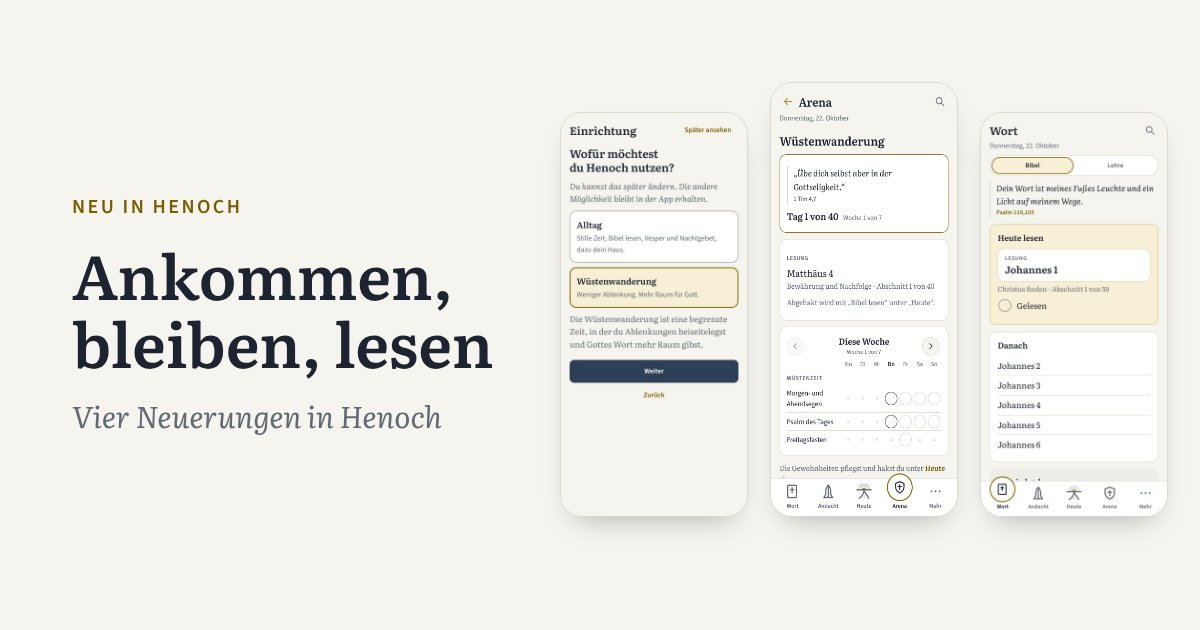
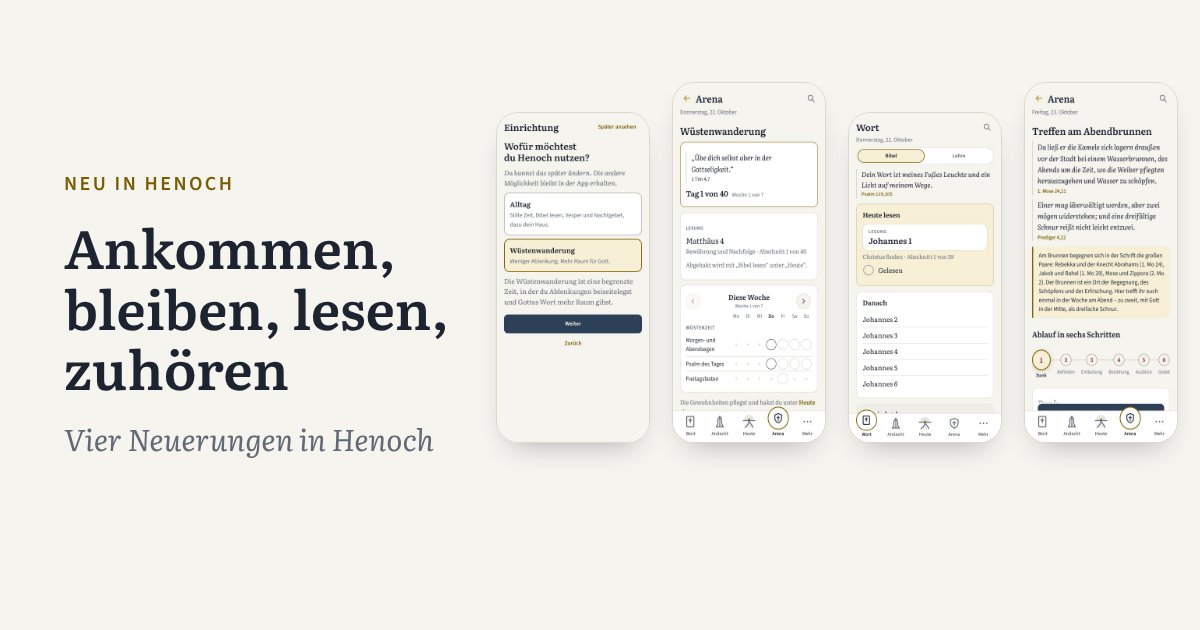
Version 1.5.1: Überschrift „Ankommen, bleiben, lesen, zuhören“, Vorschaubild mit dem Abendbrunnen
Claude-Session: https://claude.ai/code/session_0153VQ5cxdF3svXPQwUaQRWS

diff --git a/index.html b/index.html
@@ -1,5 +1,5 @@
 <!doctype html>
-<!-- Henoch Homepage 1.5.0 -->
+<!-- Henoch Homepage 1.5.1 -->
 <html lang="de">
 <head>
   <meta charset="utf-8">
@@ -121,7 +121,7 @@
       <h2 id="neuigkeiten">Neuigkeiten</h2>
       <!-- Höchstens fünf Beiträge, der neueste zuerst; die sechste Kachel ist immer das Archiv. -->
       <ul class="news">
-        <li><a href="neuigkeiten/drei-neuerungen-2026/"><span class="news-date">Oktober 2026</span><span class="news-title">Ankommen, bleiben, lesen</span><span class="news-text">Einrichtung, Wüstenwanderung, Lesepläne und das Treffen am Abendbrunnen: was neu ist und was es dir bringt.</span></a></li>
+        <li><a href="neuigkeiten/drei-neuerungen-2026/"><span class="news-date">Oktober 2026</span><span class="news-title">Ankommen, bleiben, lesen, zuhören</span><span class="news-text">Einrichtung, Wüstenwanderung, Lesepläne und das Treffen am Abendbrunnen: was neu ist und was es dir bringt.</span></a></li>
         <li><a href="neuigkeiten/advent-2026/"><span class="news-date">Oktober 2026</span><span class="news-title">Wüstenwanderung im Advent</span><span class="news-text">Was die Adventszeit ist und wie du sie mit einer Wüstenzeit in Henoch nutzen kannst.</span></a></li>
         <li><a href="anleitung/"><span class="news-date">Oktober 2026</span><span class="news-title">Henoch Schritt für Schritt</span><span class="news-text">Die Anleitung: installieren, einrichten und mit der App durch den Tag gehen.</span></a></li>
         <li class="archive"><a href="neuigkeiten/"><span class="news-title">Archiv</span><span class="news-text">Alle Beiträge nach Jahr und Monat.</span></a></li>

diff --git a/neuigkeiten/drei-neuerungen-2026/index.html b/neuigkeiten/drei-neuerungen-2026/index.html
@@ -3,7 +3,7 @@
 <head>
   <meta charset="utf-8">
   <meta name="viewport" content="width=device-width, initial-scale=1, viewport-fit=cover">
-  <title>Ankommen, bleiben, lesen – Henoch</title>
+  <title>Ankommen, bleiben, lesen, zuhören – Henoch</title>
   <meta name="description" content="Die Einrichtung beim ersten Start, die neu geordnete Wüstenwanderung, Lesepläne nach Abschnitten und das Treffen am Abendbrunnen: was sich geändert hat und was es dir bringt.">
   <meta name="color-scheme" content="light dark">
   <link rel="icon" href="../../favicon.svg" type="image/svg+xml">
@@ -12,7 +12,7 @@
   <meta property="og:type" content="article">
   <meta property="og:locale" content="de_DE">
   <meta property="og:site_name" content="Henoch">
-  <meta property="og:title" content="Ankommen, bleiben, lesen">
+  <meta property="og:title" content="Ankommen, bleiben, lesen, zuhören">
   <meta property="og:description" content="Die Einrichtung beim ersten Start, die neu geordnete Wüstenwanderung, Lesepläne nach Abschnitten und das Treffen am Abendbrunnen: was sich geändert hat und was es dir bringt.">
   <meta property="og:url" content="https://henoch.app/neuigkeiten/drei-neuerungen-2026/">
   <meta property="og:image" content="https://henoch.app/neuigkeiten/drei-neuerungen-2026/img/teilen.jpg">
@@ -42,7 +42,7 @@
   <div class="wrap wrap-text">
     <header class="text-head">
       <p class="kicker">Neu in Henoch · Oktober 2026</p>
-      <h1>Ankommen, bleiben, lesen</h1>
+      <h1>Ankommen, bleiben, lesen, zuhören</h1>
       <p class="subtitle">Vier Neuerungen in Henoch</p>
     </header>
 

diff --git a/neuigkeiten/index.html b/neuigkeiten/index.html
@@ -36,7 +36,7 @@
       <h2 id="j2026">2026</h2>
       <h3>Oktober</h3>
       <ul class="archive-list">
-        <li><a href="drei-neuerungen-2026/">Ankommen, bleiben, lesen</a><span>Einrichtung, Wüstenwanderung, Lesepläne und das Treffen am Abendbrunnen: was neu ist und was es dir bringt.</span></li>
+        <li><a href="drei-neuerungen-2026/">Ankommen, bleiben, lesen, zuhören</a><span>Einrichtung, Wüstenwanderung, Lesepläne und das Treffen am Abendbrunnen: was neu ist und was es dir bringt.</span></li>
         <li><a href="advent-2026/">Wüstenwanderung im Advent</a><span>Was die Adventszeit ist und wie du sie mit einer Wüstenzeit in Henoch nutzen kannst.</span></li>
         <li><a href="../anleitung/">Henoch Schritt für Schritt</a><span>Die Anleitung: installieren, einrichten und mit der App durch den Tag gehen.</span></li>
       </ul>

diff --git a/CHANGELOG.md b/CHANGELOG.md
@@ -1,5 +1,9 @@
 # Changelog Homepage henoch.app
 
+## 1.5.1 – 23. Oktober 2026
+
+- Beitrag „Ankommen, bleiben, lesen, zuhören“: Überschrift um „zuhören“ ergänzt, passend zum Treffen am Abendbrunnen. Vorschaubild zum Teilen mit vier Bildschirmen, darunter das Treffen. Titel auf der Startseite und im Archiv angepasst.
+
 ## 1.5.0 – 23. Oktober 2026
 
 - Beitrag „Ankommen, bleiben, lesen“: vierter Abschnitt zum Treffen am Abendbrunnen, mit dem Export der Einträge, drei Bildschirmfotos und dem Bibelwort Prediger 4,12. Untertitel „Vier Neuerungen in Henoch“, Vorschaubild, Meldung auf der Startseite und im Archiv angepasst.

diff --git a/README.md b/README.md
@@ -1,6 +1,6 @@
 # Henoch – Homepage
 
-Version 1.5.0 · live unter **https://henoch.app**
+Version 1.5.1 · live unter **https://henoch.app**
 
 Die Homepage stellt Henoch vor, einen Begleiter für Männer, die ihren Tag mit Gott beginnen und beschließen wollen, und führt zur App unter **https://mein.henoch.app**.
 
